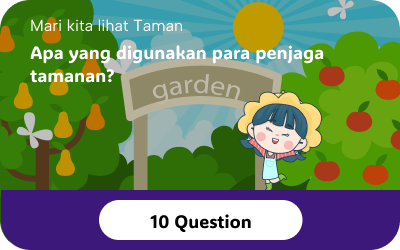
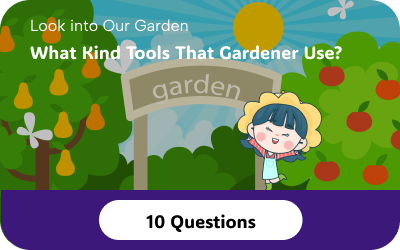
update 1 - febi

diff --git a/JS/latihan.js b/JS/latihan.js
@@ -24,13 +24,29 @@ function initLatihan(tema) {
     renderSoal();
 }
 
+// JS/latihan.js
+
 function cekJawaban(jawabanUser) {
+    // 1. Ambil settingan suara dari penyimpanan
+    let settings = JSON.parse(localStorage.getItem('funvo_switches')) || { suara: true };
+    let savedVol = localStorage.getItem('funvo_vol') || 50;
+
     if (jawabanUser === soalAktif[indexSekarang].answer) {
-        // PERBAIKAN DI SINI: Gunakan nama fungsi yang sesuai dengan main.js
+        // --- JAWABAN BENAR ---
+        
+        // Mainkan suara benar (bgm4.mp3) jika settingan suara ON
+        if (settings.suara) {
+            let audioBenar = new Audio('../assets/audio/bgm4.mp3');
+            audioBenar.volume = savedVol / 100;
+            audioBenar.play().catch(e => console.log("Gagal play audio benar:", e));
+        }
+
+        // Update pencapaian
         if (typeof updateAchievement === "function") {
             updateAchievement('vocab', 1); 
         }
 
+        // Lanjut ke soal berikutnya
         indexSekarang++;
         updateProgressLatihan();
 
@@ -41,12 +57,16 @@ function cekJawaban(jawabanUser) {
             finishGame();
         }
     } else {
-        // --- MODIFIKASI: Suara Jawaban Salah (bgm2.mp3) ---
-        let audioSalah = new Audio('../assets/audio/bgm2.mp3');
-        audioSalah.volume = 0.5; // Sesuaikan volume (0.0 - 1.0)
-        audioSalah.play().catch(e => console.log("Gagal play audio salah:", e));
+        // --- JAWABAN SALAH ---
 
-        showPopup("Ups!", "Coba dengarkan lagi ya 😊", 1500);
+        // Mainkan suara salah (bgm2.mp3) jika settingan suara ON
+        if (settings.suara) {
+            let audioSalah = new Audio('../assets/audio/bgm2.mp3');
+            audioSalah.volume = savedVol / 100; 
+            audioSalah.play().catch(e => console.log("Gagal play audio salah:", e));
+        }
+
+        showPopup("Ups!", "What Out for what you heard!😊", 1500);
     }
 }
 
@@ -151,9 +171,9 @@ function useHint() {
         const jawabanBenar = soalAktif[indexSekarang].answer; 
         const hurufPertama = jawabanBenar.charAt(0).toUpperCase();
         
-        showPopup("Petunjuk!", `Kata dimulai huruf: "${hurufPertama}"`, 2000);
+        showPopup("Hint!", `The First Word Start With: "${hurufPertama}"`, 2000);
     } else {
-        showPopup("Habis!", "Maaf, petunjuk kamu sudah habis. Ayo coba sendiri! 💪", 2000);
+        showPopup("Run out!", "Sorry, Your hints are up. Come on, try it yourself! 💪", 2000);
     }
 }
 

diff --git a/JS/main.js b/JS/main.js
@@ -318,8 +318,8 @@ function initHome() {
     const greetingText = document.getElementById("greetings");
     if (greetingText) {
         const jam = new Date().getHours();
-        let ucapan = jam < 12 ? "Pagi" : (jam < 15 ? "Siang" : (jam < 18 ? "Sore" : "Malam"));
-        greetingText.innerText = `Halo, Selamat ${ucapan}!`;
+        let ucapan = jam < 12 ? "Morning" : (jam < 15 ? "Afternoon" : (jam < 18 ? "Evening" : "Night"));
+        greetingText.innerText = `Hello, Good ${ucapan}!`;
     }
 }
 

diff --git a/Pages/pengaturan.html b/Pages/pengaturan.html
@@ -1,5 +1,5 @@
 <div class="settings-content">
-    <h2 class="settings-title">PENGATURAN</h2>
+    <h2 class="settings-title">Settings</h2>
 
 <div class="pembungkus-vol-mus">
     <div class="slider-row">
